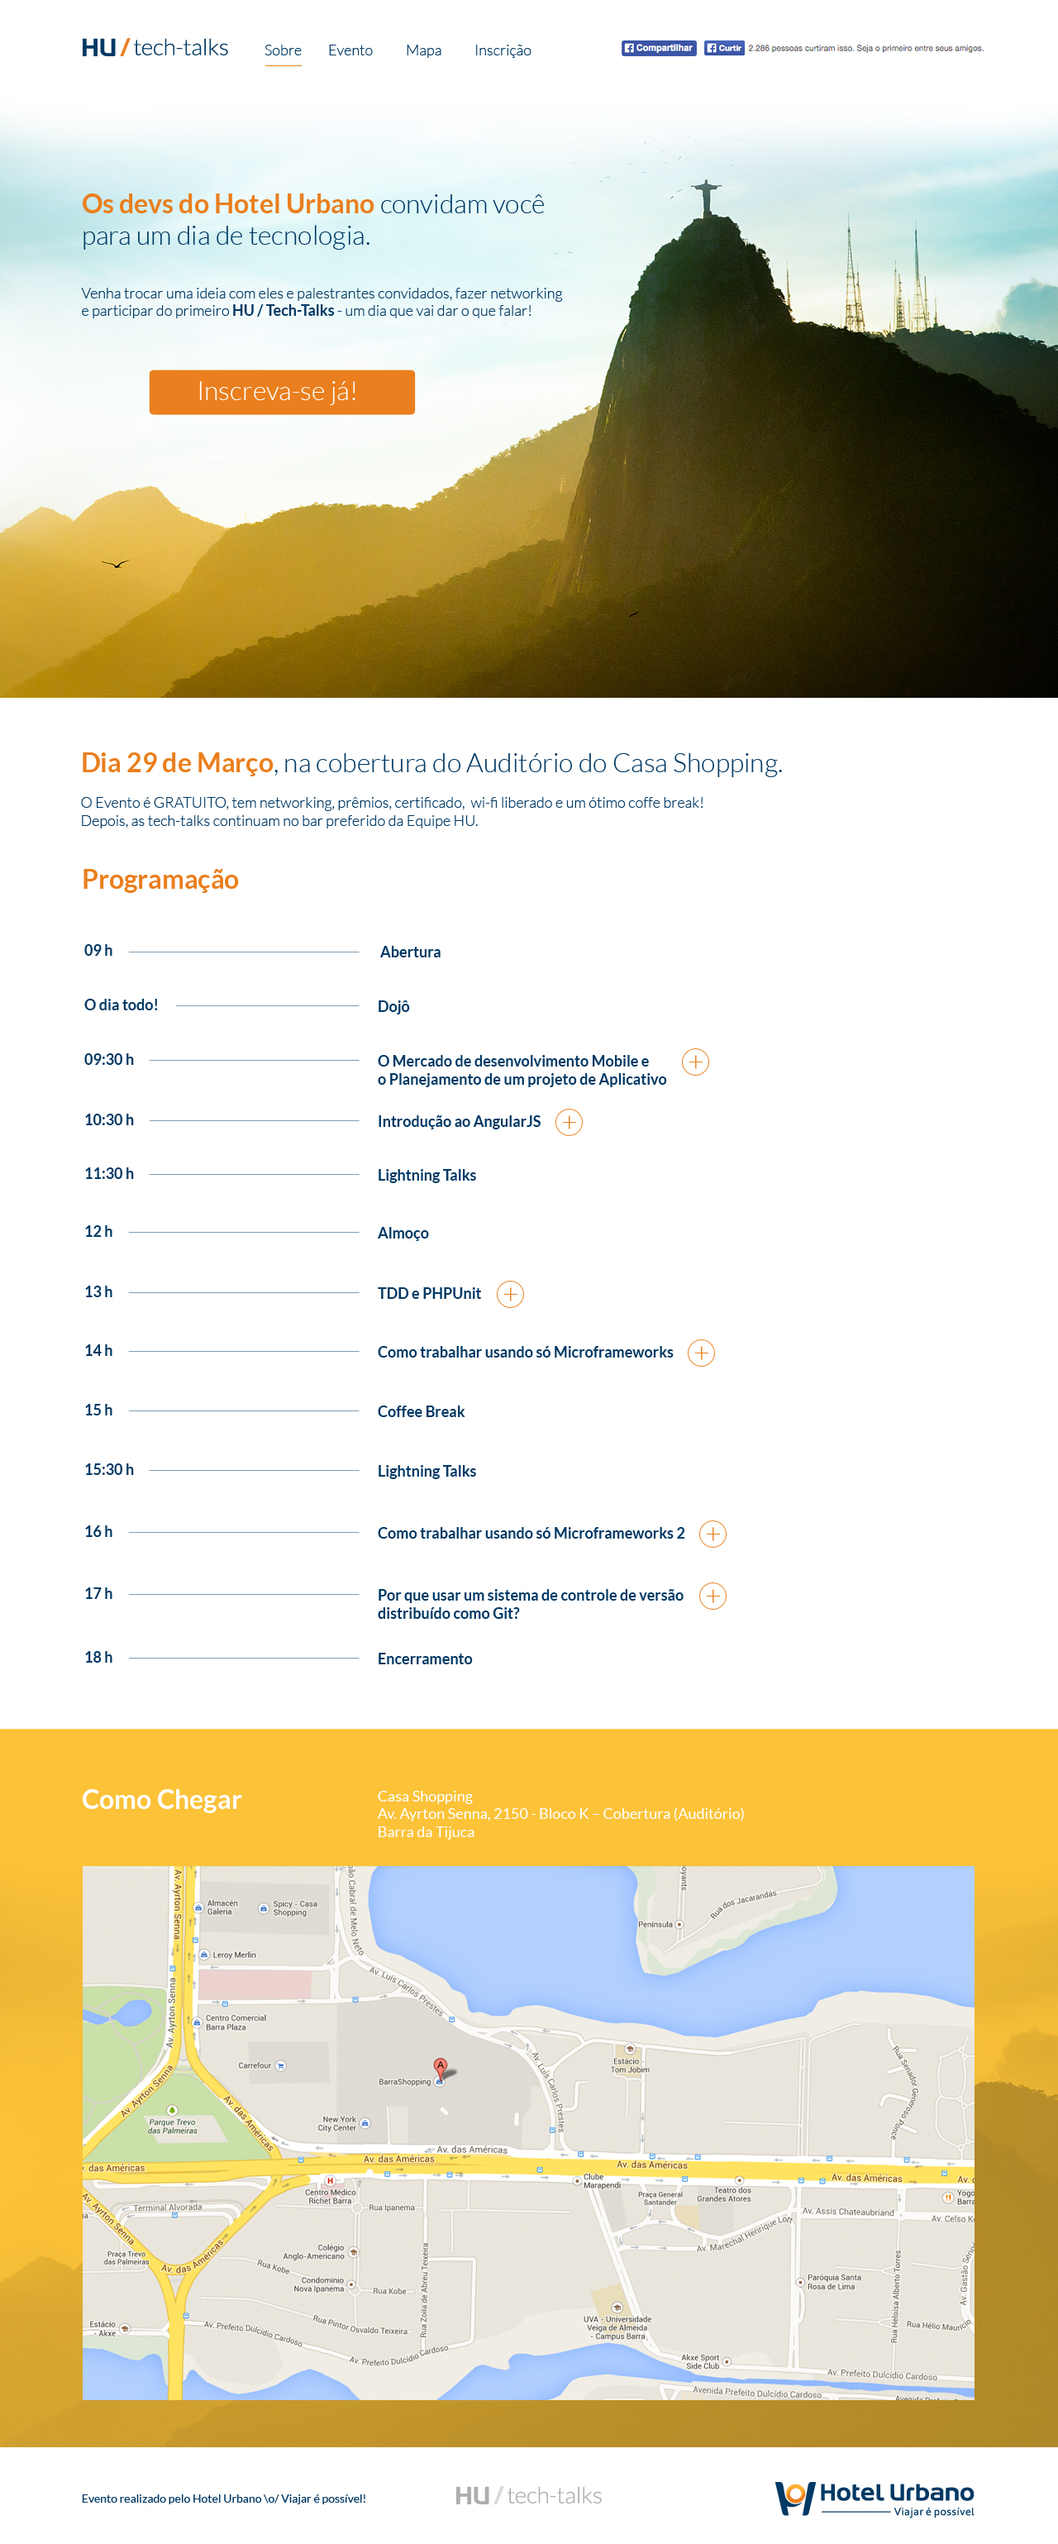
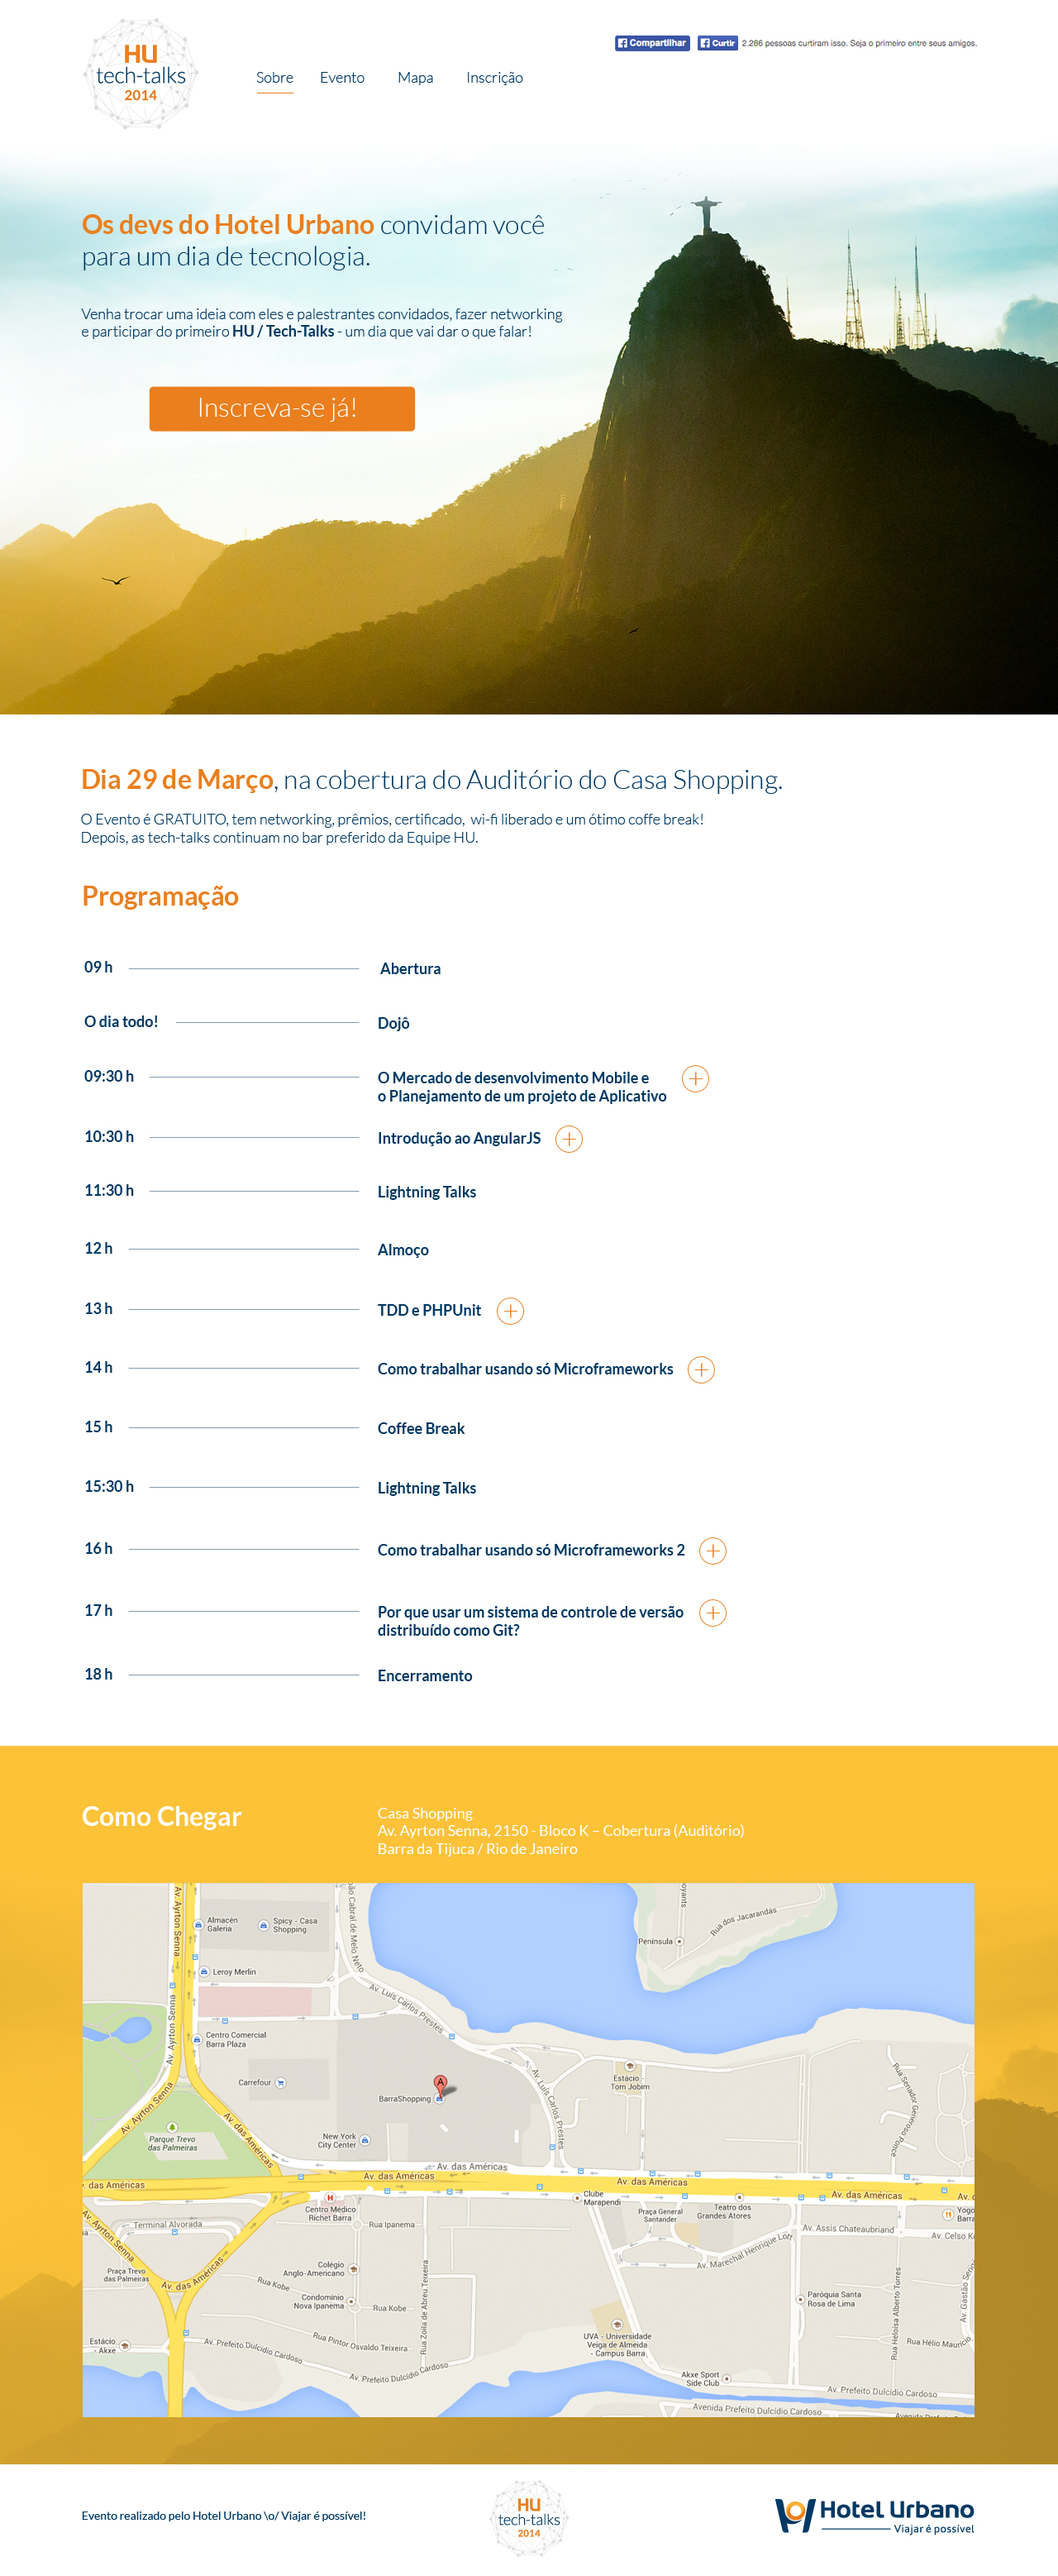
Atualização de imagens

diff --git a/index.html b/index.html
@@ -35,14 +35,8 @@
     <div class="navbar navbar-default navbar-fixed-top" role="navigation">
       <div class="container">
         <div class="navbar-header">
-          <button type="button" class="navbar-toggle" data-toggle="collapse" data-target=".navbar-collapse">
-            <span class="sr-only">Toggle navigation</span>
-            <span class="icon-bar"></span>
-            <span class="icon-bar"></span>
-            <span class="icon-bar"></span>
-          </button>
           <a class="navbar-brand" href="#">
-            <img class="img-responsive" src="./images/logo-techtalks.jpg" alt="HU / TechTalks" style="margin-top: -5px;"></a>
+            <img class="img-responsive" src="./images/logo-techtalks.png" alt="HU / TechTalks" style="margin-top: -5px;"></a>
         </div>
         <div class="navbar-collapse collapse">
           <ul class="nav navbar-nav">
@@ -366,7 +360,7 @@
     <footer>
       <div class="row-fluid">
         <div class="span4">Evento organizado pelo Hotel Urbano \o/ Viajar é possível!</div>
-        <div class="span4">HU / tech-talks</div>
+        <div class="span4"><img src="images/logo-footer.png" /></div>
         <div class="span4"><img src="http://cdn.hotelurbano.com/images/logo/hotel-urbano.jpg"></div>
       </div>
     </footer>
